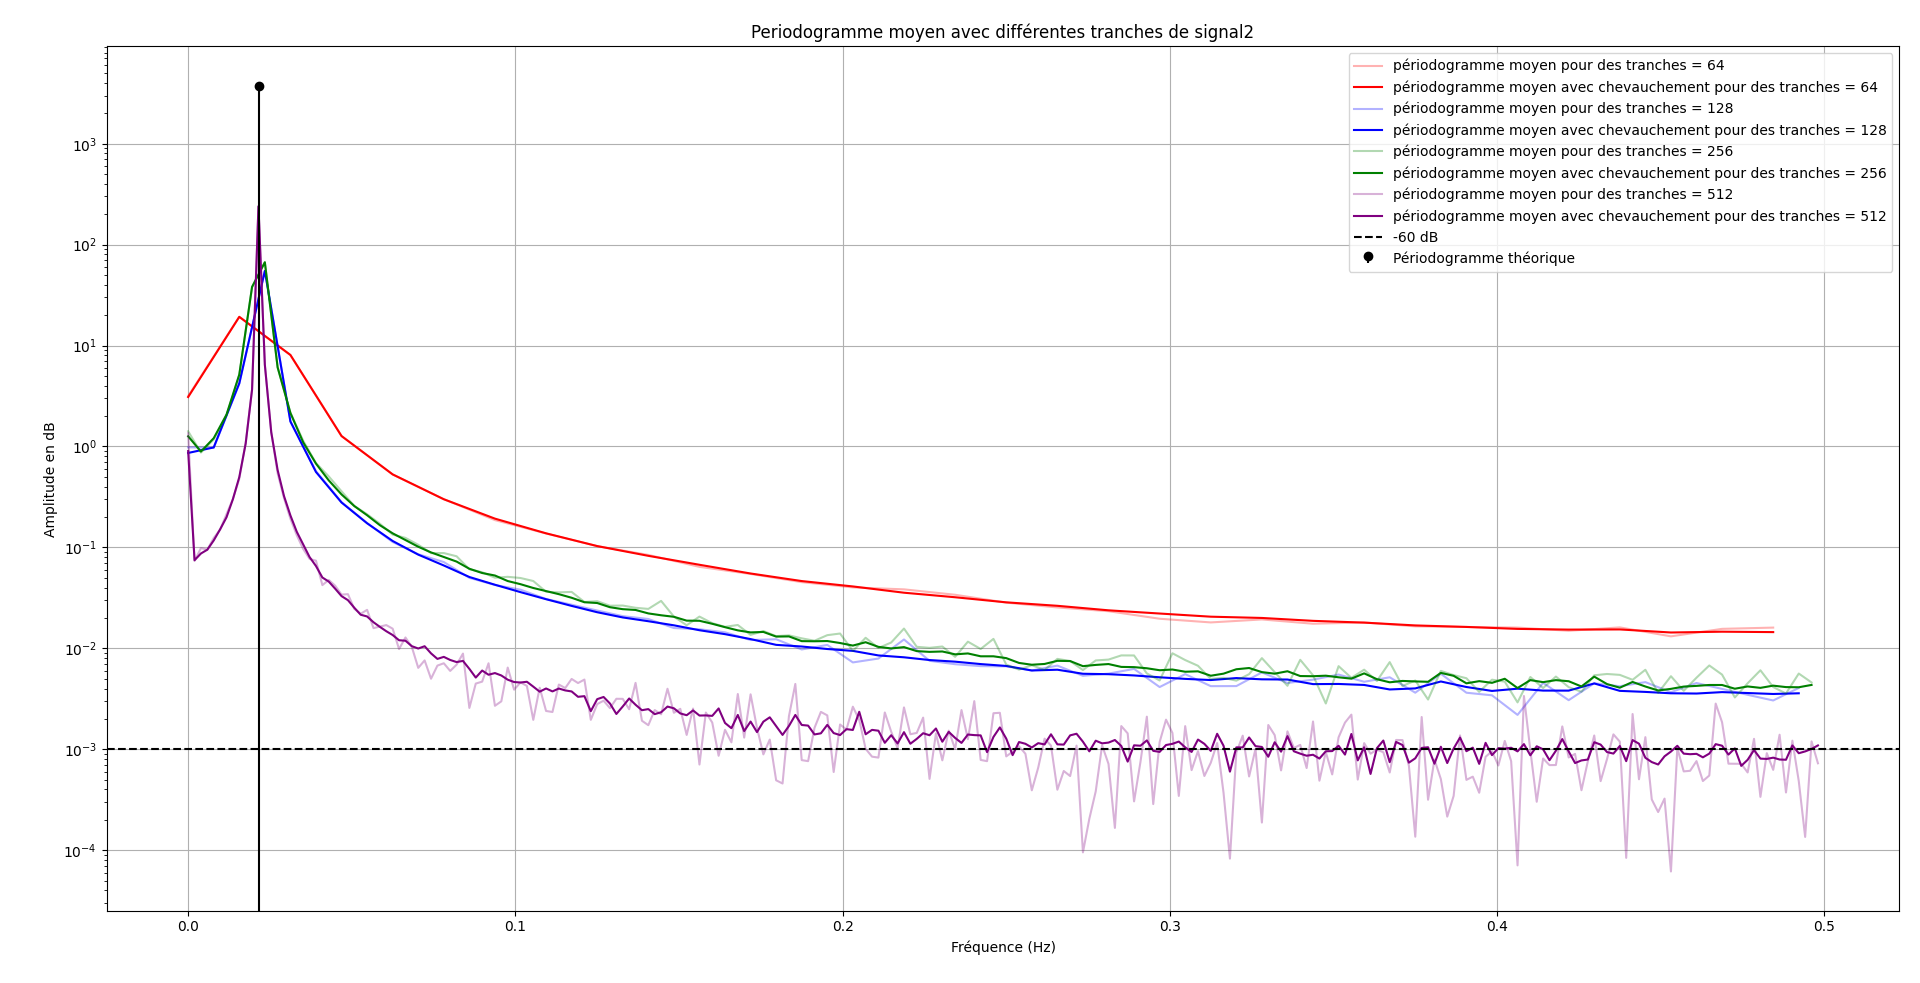
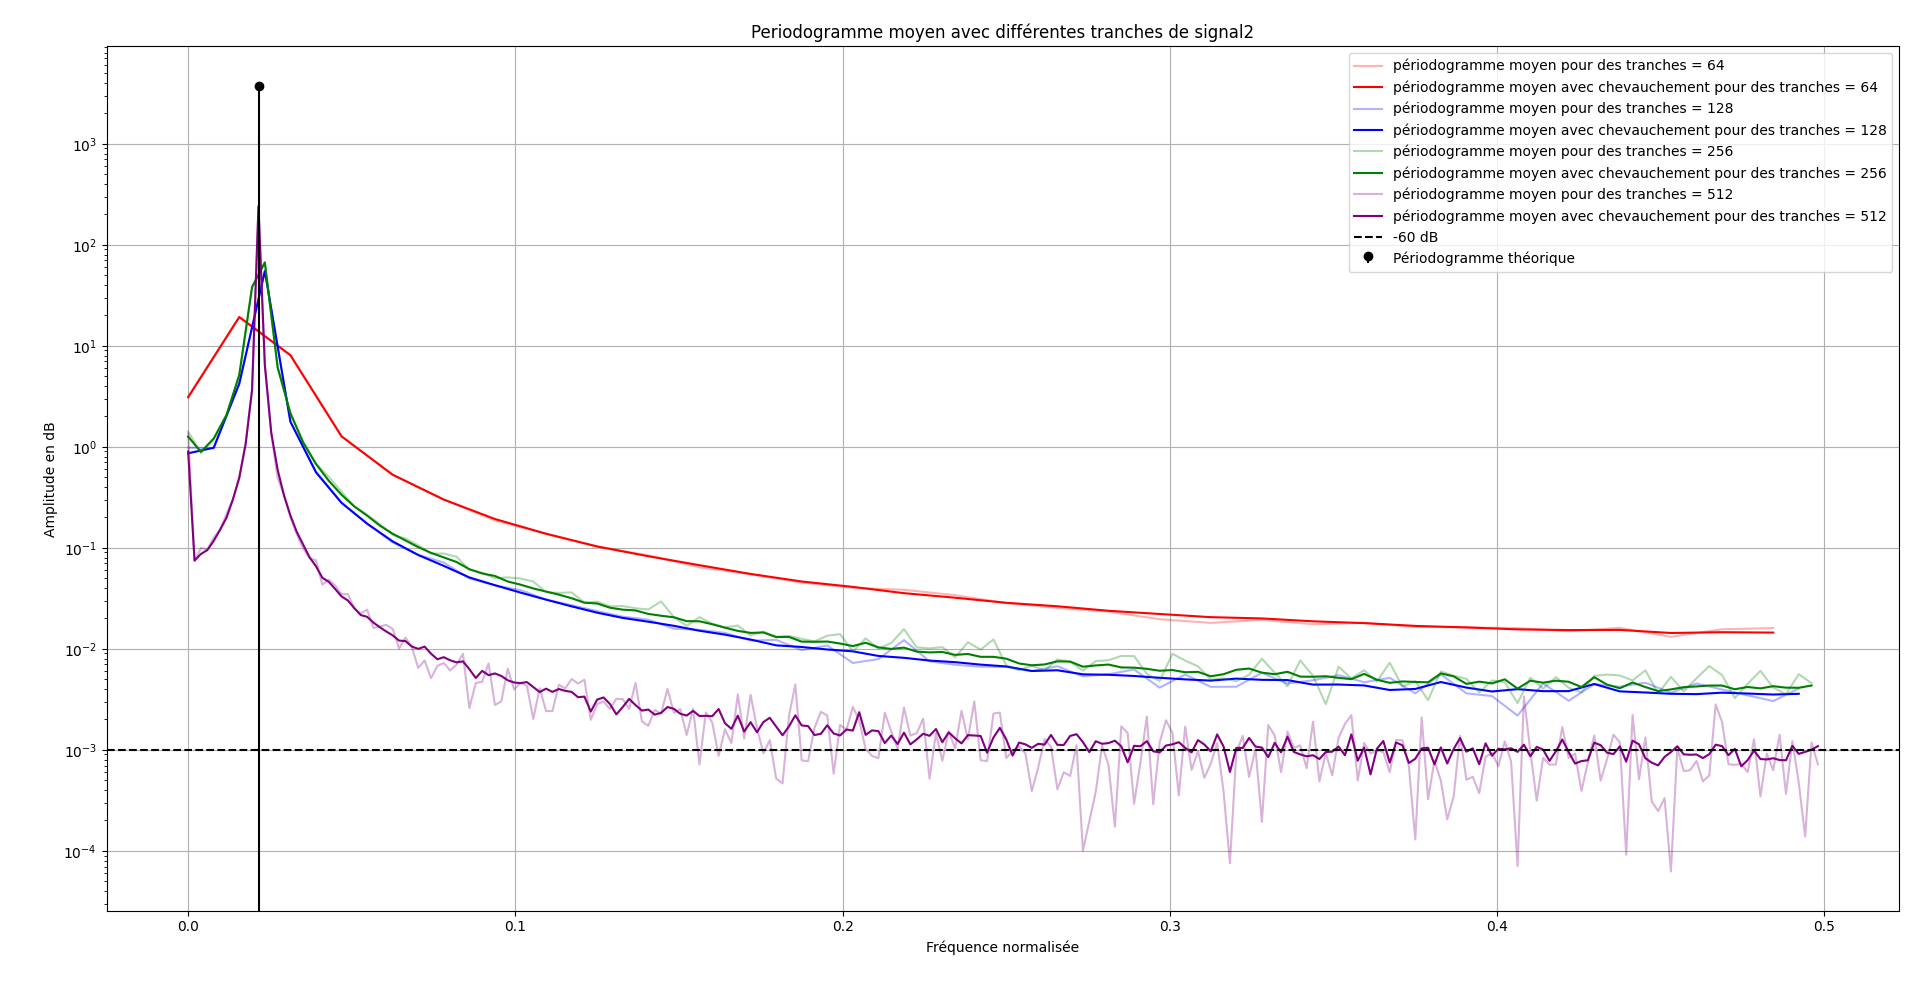
final

diff --git a/DM_partie2.py b/DM_partie2.py
@@ -21,7 +21,6 @@ N=2**17
 variance = 0.5
 sigma = np.sqrt(variance)
 
-
 # Génération d'un signal pseudo-aléatoire gaussien
 np.random.seed(42)
 pre_signal = sigma * np.random.randn(N)  # Signal total
@@ -133,7 +132,7 @@ def ex1_signal_et_bruit():
             # Création des subplots pour les périodogrammes
             plt.subplot(2, 2, liste_N.index(n) + 1)
             plt.grid(True)
-            plt.xlabel("Fréquence")
+            plt.xlabel("Fréquence normalisée")
             plt.ylabel("Amplitude en dB")
 
             # Affichage dans la même couleur d'une réalisation et de l'estimateur
@@ -180,7 +179,7 @@ def ex1_signal_et_bruit():
             # Création des subplots pour biais et variance
             plt.subplot(2, 2, liste_N.index(n) + 1)
             plt.grid(True)
-            plt.xlabel("Fréquence")
+            plt.xlabel("Fréquence normalisée")
             plt.ylabel("Amplitude en dB")
             plt.plot(pos_freqs, biais_periodogramme, label='biais du périodogramme moyen pour N = ' + str(n), color=col_, alpha=0.5)
             plt.plot(pos_freqs, variance_periodogramme, label='variance du périodogramme pour N = ' + str(n), color=col_)
@@ -247,7 +246,7 @@ def ex1_sinus():
         # Création des subplots pour chaque N
         plt.subplot(2, 2, i + 1)
         plt.grid(True)
-        plt.xlabel("Fréquence réduite")
+        plt.xlabel("Fréquence normalisée")
         plt.ylabel("Amplitude")
         plt.title(f"Différents tracés DSP d'un signal sinusoidal N = {N}")
         col_ = liste_col[i]
@@ -304,7 +303,7 @@ def ex1_sinus():
 
         # Création des subplots pour chaque N
         plt.grid(True)
-        plt.xlabel("Fréquence réduite")
+        plt.xlabel("Fréquence normalisée")
         plt.ylabel("Amplitude")
         plt.title(f"Différents tracés DSP d'un signal sinusoidal N = {N}")
         col_ = liste_col[i]
@@ -330,11 +329,12 @@ def ex2():
     N=7500
     f_ech = 1024 #Hz
     f_sinus = 140 #Hz
+    f_sinus2 = 180 
     A = np.sqrt(2)
     sigma = 0.08
 
     liste_t = np.array(range(N))/f_ech
-    signal2 = np.sin(liste_t*f_sinus)*A + np.random.rand(N)*sigma
+    signal2 = np.sin(liste_t*f_sinus)*A + np.sin(liste_t*f_sinus2)*A/100 + np.random.rand(N)*sigma
 
     Tranches = [64,128,256,512]
     liste_col = ['red','blue','green','purple']
@@ -375,7 +375,7 @@ def ex2():
 
             #plt.subplot(2, 2, Tranches.index(taille_tranche) + 1)
             plt.grid(True)
-            plt.xlabel("Fréquence (Hz)")
+            plt.xlabel("Fréquence normalisée")
             plt.ylabel("Amplitude en dB")
             plt.yscale('log')
 
@@ -402,13 +402,14 @@ def ex3():
     N=7500
     f_ech = 1024 #Hz
     f_sinus = 140 #Hz
+    f_sinus2 = 180 
     A = np.sqrt(2)
     sigma = 0.08
 
     liste_t = np.array(range(N))/f_ech
-    signal2 = np.sin(liste_t*f_sinus)*A + np.random.rand(N)*sigma
+    signal2 = np.sin(liste_t*f_sinus)*A + np.sin(liste_t*f_sinus2)*A/100 + np.random.rand(N)*sigma
 
-    taille_tranche = 512
+    taille_tranche = 1024
     liste_col = ['red','blue','green','purple']
     signals = [signal1, bruit, signal2]
     signalstxt = ['signal1', 'bruit', 'signal2']
@@ -450,7 +451,7 @@ def ex3():
 
             #plt.subplot(2, 2, Tranches.index(taille_tranche) + 1)
             plt.grid(True)
-            plt.xlabel("Fréquence (Hz)")
+            plt.xlabel("Fréquence normalisée")
             plt.ylabel("Amplitude en dB")
             plt.yscale('log')
 
@@ -539,8 +540,8 @@ def ex4():
         plt.yscale('log')
 
         # Plotting the reordered periodogram
-        plt.plot(positive_freqs, positive_periodo_moyen, label='périodogramme moyen pour une fenêtre de = ' + fenetretxt, color=liste_col[i], alpha=0.4)
-        plt.plot(positive_freqs, positive_periodo_moyen_chevauchement, label='périodogramme moyen avec chevauchement pour une fenêtre de = ' + fenetretxt, color=liste_col[i])
+        plt.plot(positive_freqs*sample_rate, positive_periodo_moyen, label='périodogramme moyen pour une fenêtre de = ' + fenetretxt, color=liste_col[i], alpha=0.4)
+        plt.plot(positive_freqs*sample_rate, positive_periodo_moyen_chevauchement, label='périodogramme moyen avec chevauchement pour une fenêtre de = ' + fenetretxt, color=liste_col[i])
  
     plt.legend()
     plt.show()
